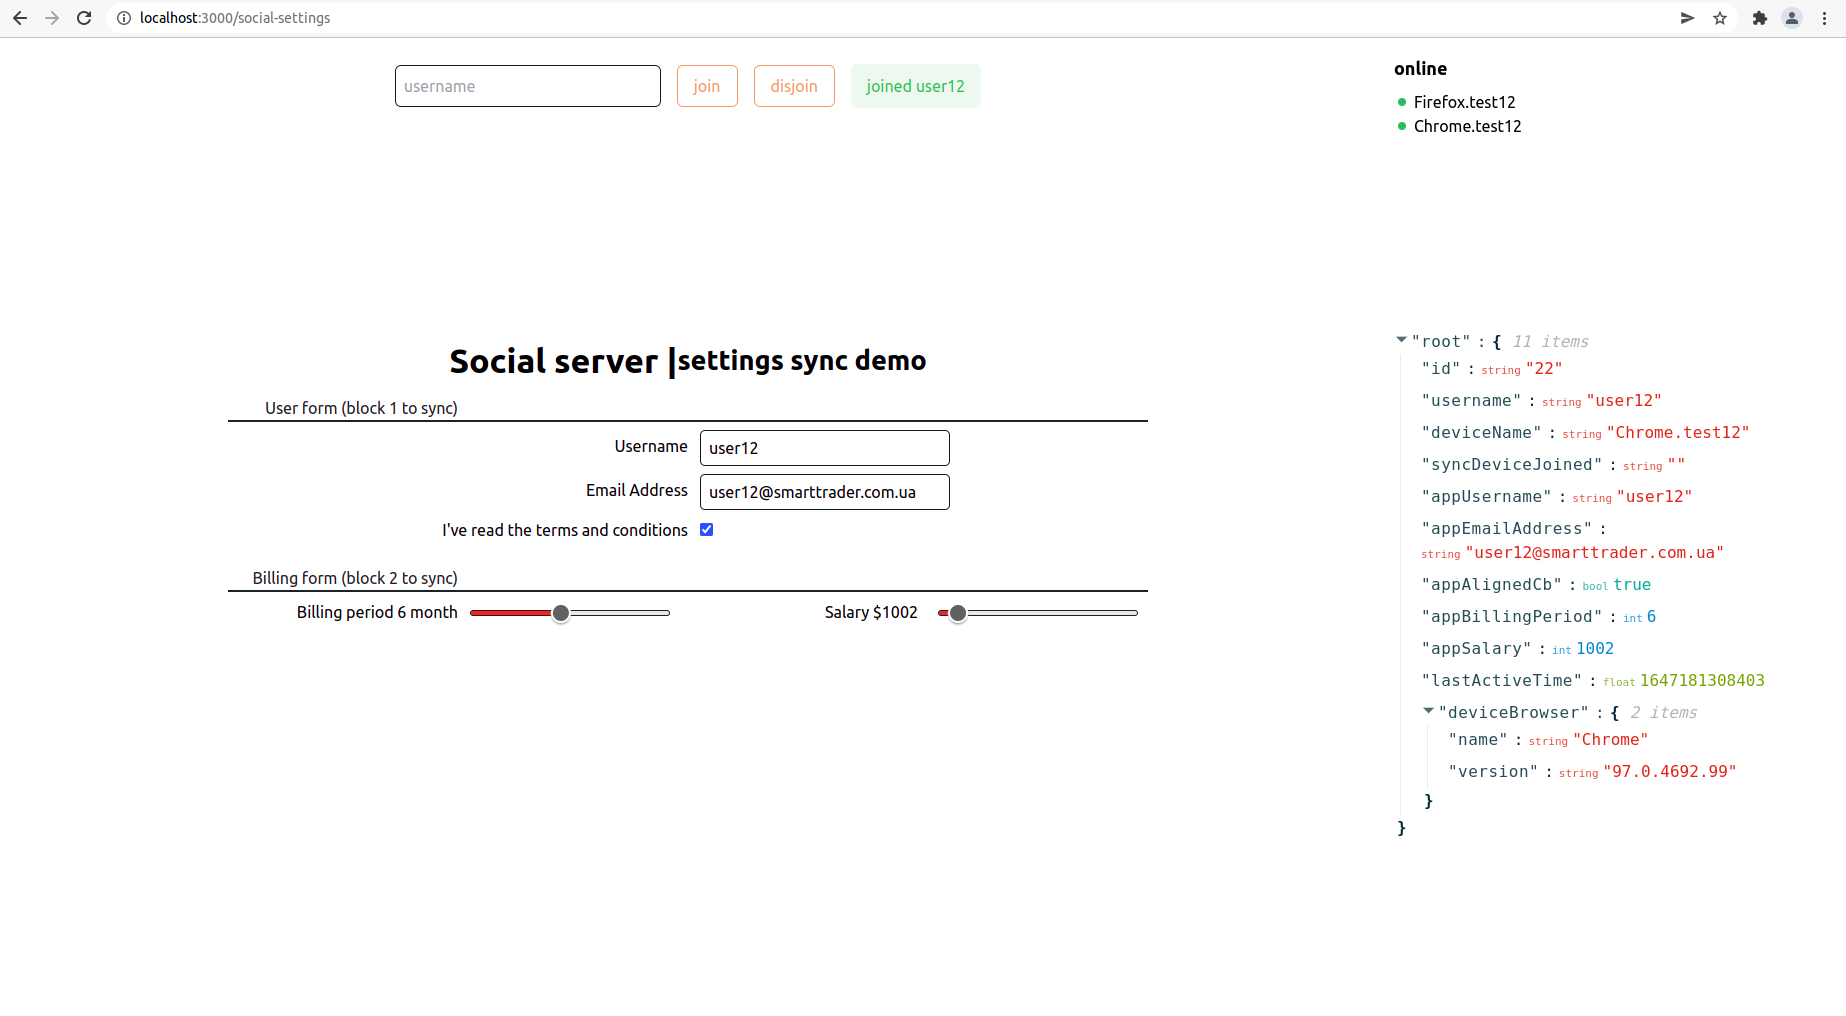
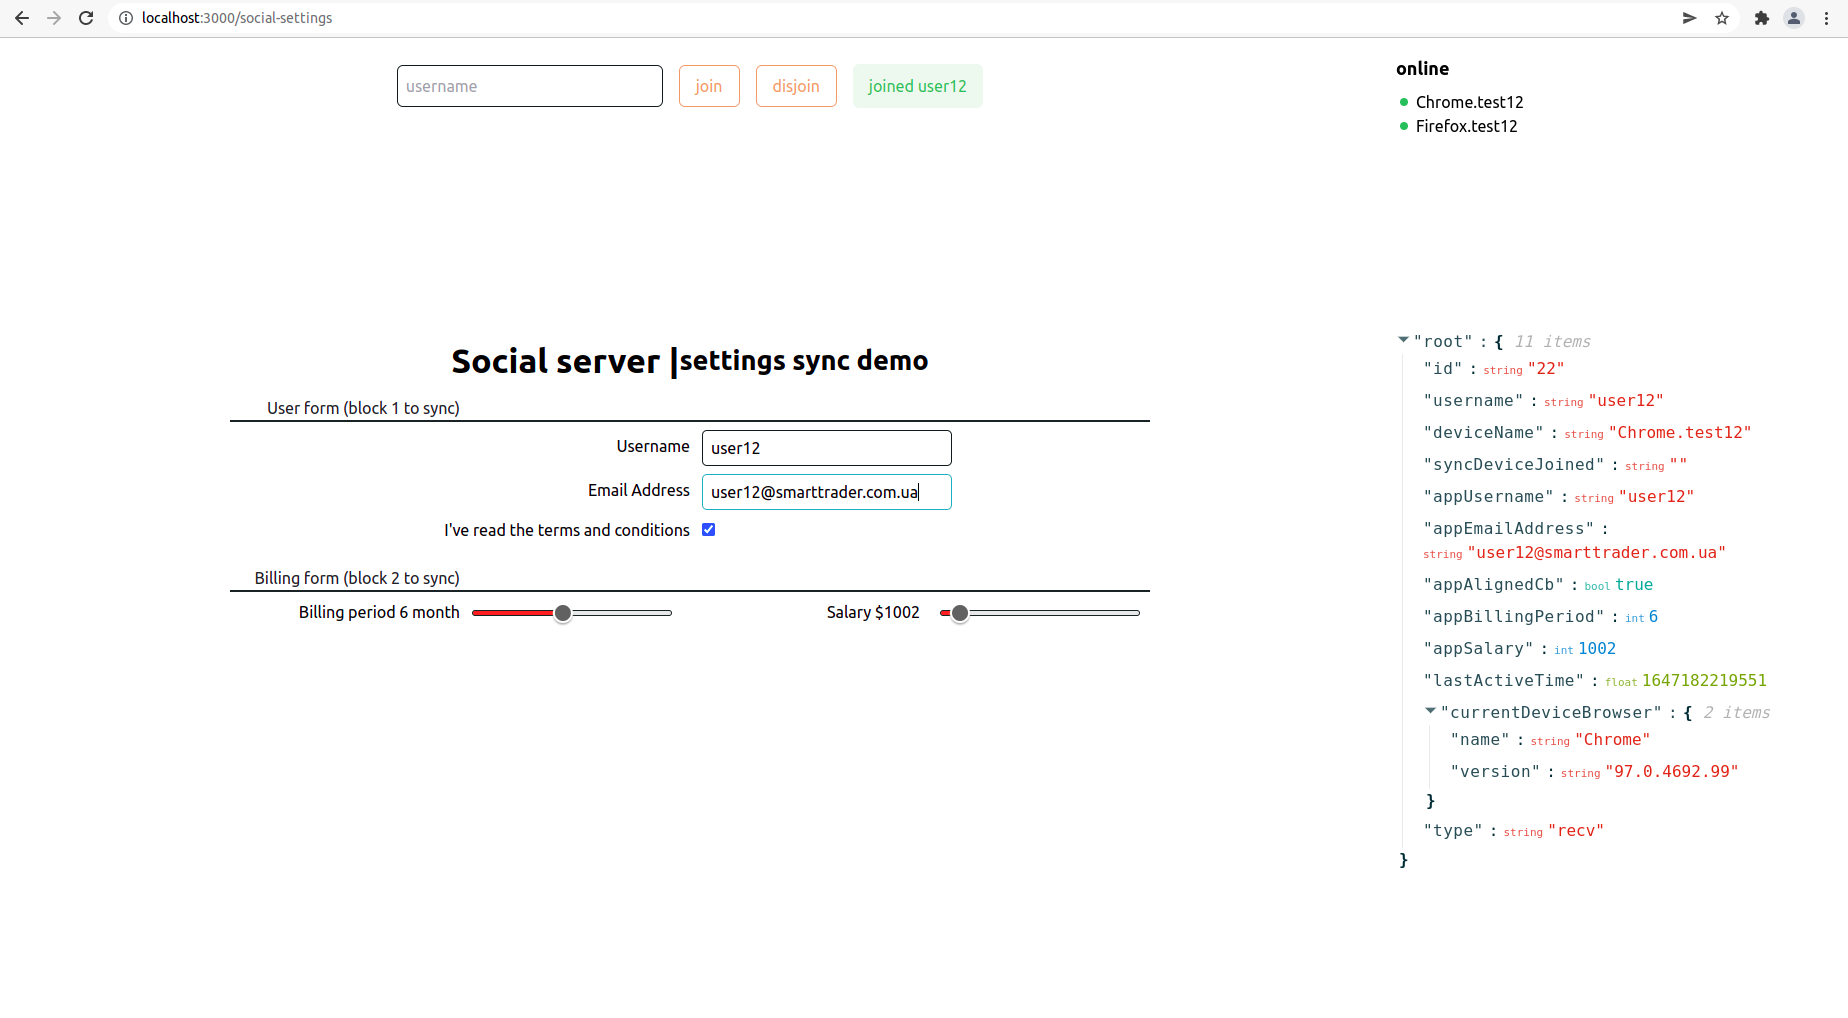
KYIV-dev | README

diff --git a/client/src/pages/social-settings/index.tsx b/client/src/pages/social-settings/index.tsx
@@ -61,7 +61,7 @@ export default function SocialSettings() {
       const something: Something = JSON.parse(messageEvent.data);
       something.lastActiveTime = new Date().getTime();
       const browser = Bowser.getParser(window.navigator.userAgent);
-      something.deviceBrowser = {
+      something.currentDeviceBrowser = {
           name: browser.getBrowserName(),
           version: browser.getBrowserVersion()
       };

diff --git a/client/src/types/something.ts b/client/src/types/something.ts
@@ -2,7 +2,7 @@ export type Something = { // TODO: init dynamic data
   id: number;
   deviceName: string;
   syncDeviceJoined: string;
-  deviceBrowser: {};
+  currentDeviceBrowser: {};
   lastActiveTime: number;
   type: 'recv' | 'self';
   appUsername: string;
